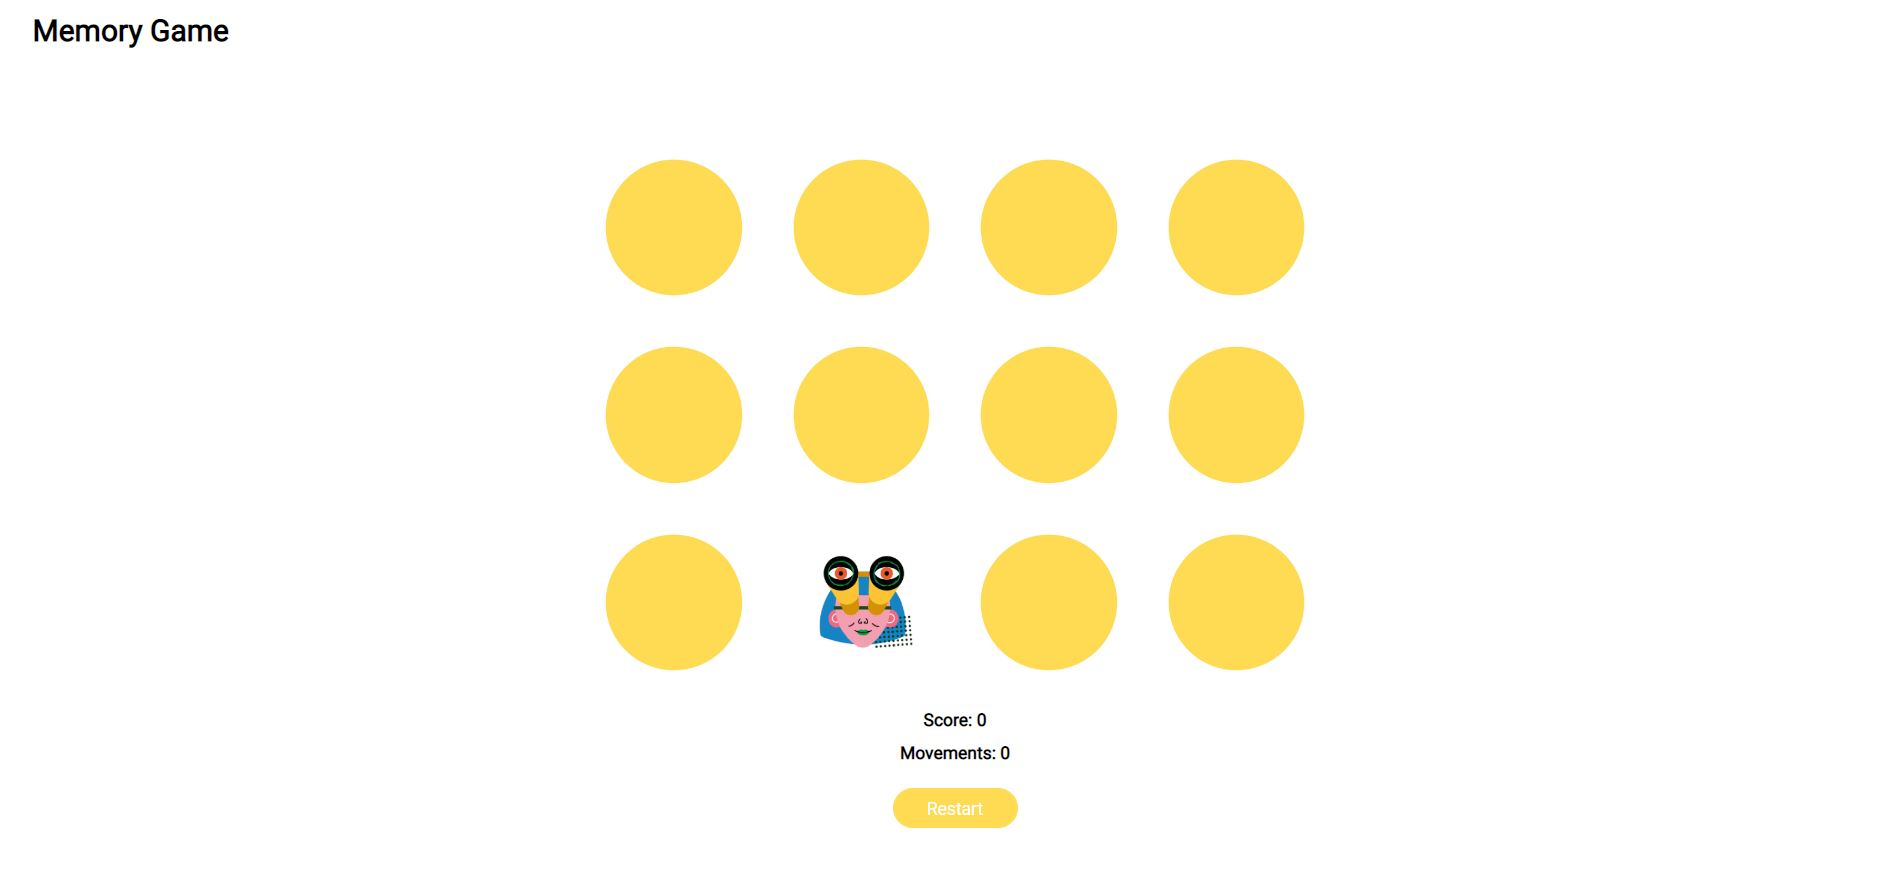
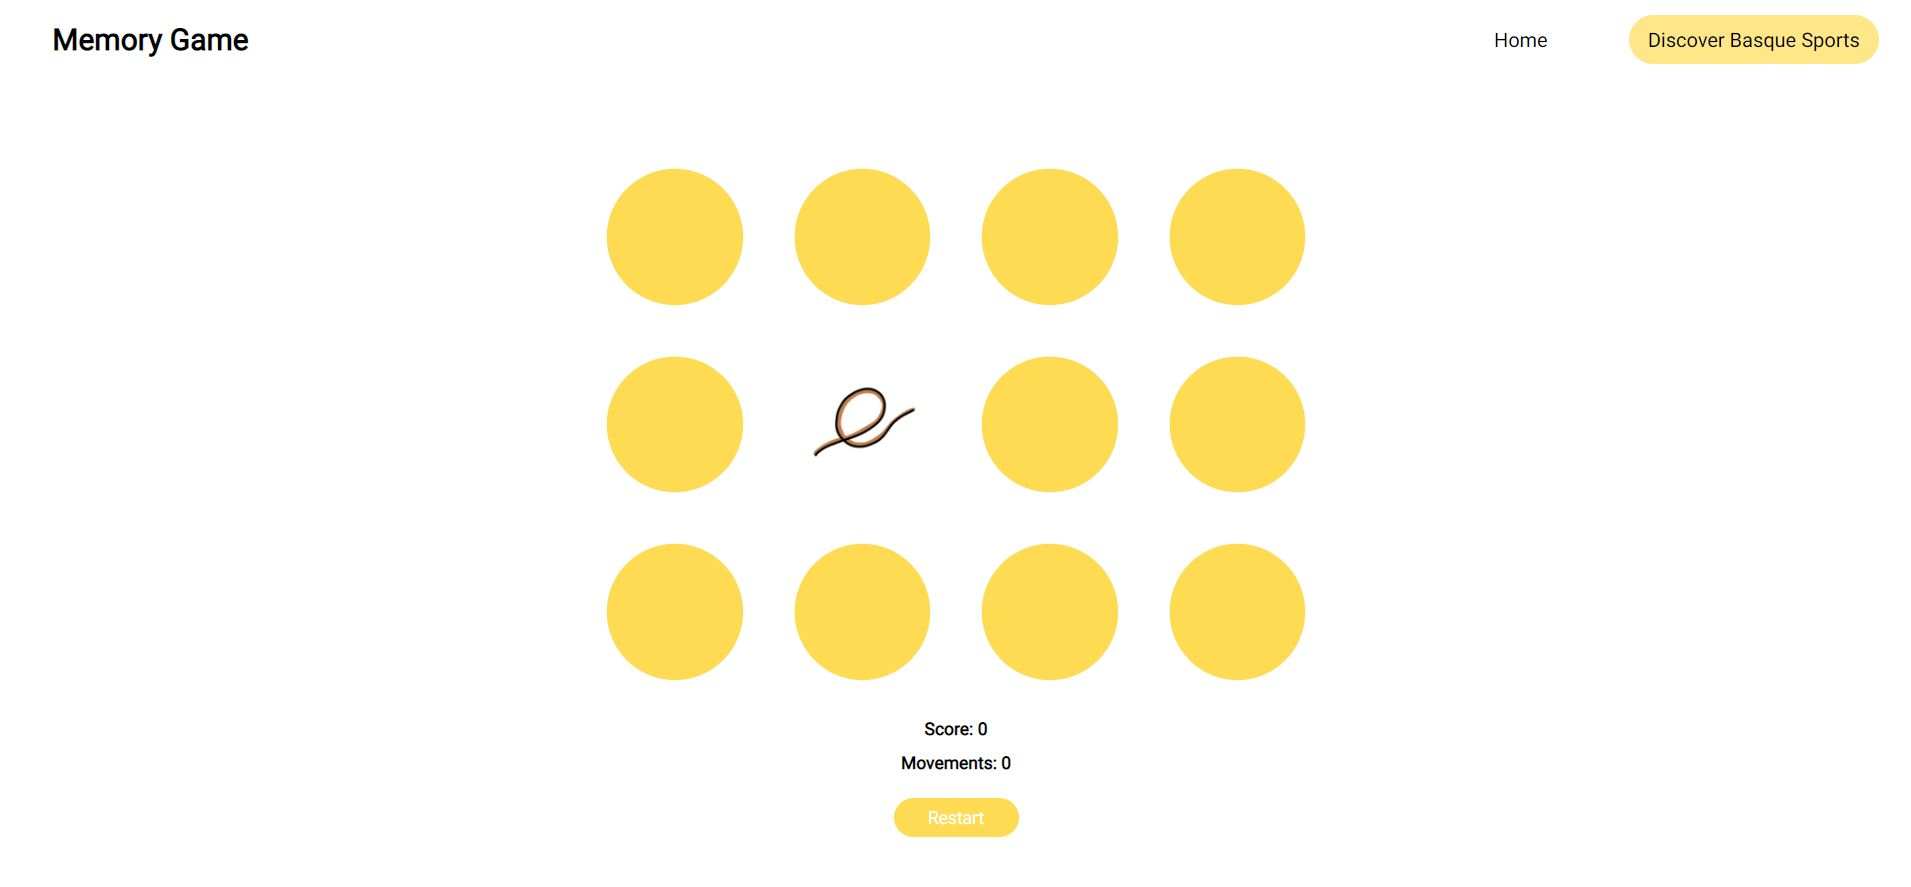
Update README

diff --git a/README.md b/README.md
@@ -10,7 +10,7 @@ Each turn:
 
 * A player flips one card over to reveal its underlying illustration
 * The player turns over a second card, trying to find the one that matches the same illustration
-* If the cards match, that's one point for you and both cards will dissapear from the game board
+* If the cards match, that's one point for you and both cards will disappear from the game board
 * If the cards do not match, both cards are returned to their initial hidden state
 
 The game ends once all cards have been correctly matched.
@@ -21,7 +21,7 @@ If you want to restart the game, you can do so by clicking the Restart button.
 
 ## What I've learned
 
-* To fully combine HTLM5, CSS3 and Javascript into a project
+* To fully combine HTML5, CSS3 and Javascript into a project
 * To work with empty arrays, as well as pushing and storing data in them
 * To practice Advanced DOM (setAttribute, createElement, appendChild)
 * To use inbuilt JavaScript functions such as Math.random and sort()
@@ -55,7 +55,9 @@ Once you flip a card, an illustration will show up, your goal will be to find th
 
 ![My Image](images/site-flipped.JPG)
 
-* [check-illustrations](https://icons8.com/illustrations/style--rush-1)
+Don't hesitate to check the Discover section, where you'll be able to learn about Basque traditional sports:
+
+![My Image](images/site-sports.JPG)
 
 ## Credits
 
